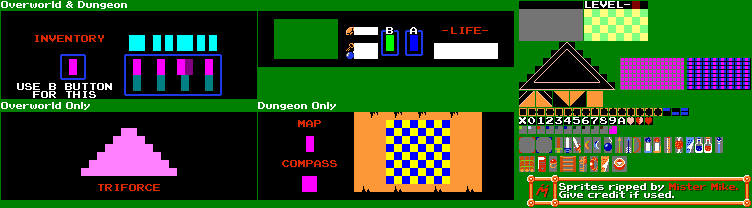
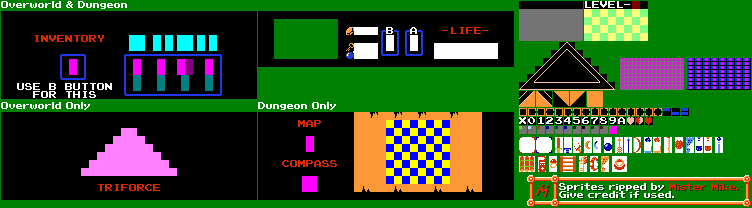
Fix HUD counters and add item slot displays
- Fix counter visibility by initializing displays after signal connection
- Add "X" prefix sprite before counter numbers
- Correct counter positions to match HUD sprite layout
- Fix digit counts: rupees=2, keys=1, bombs=1
- Add B/A item slot displays with all weapon/item sprite regions
- Display wooden sword in B slot on game start
- Add toggleable debug inputs for testing inventory (disabled by default)
- Remove known bug from implementation plan

Changed region(s): [[0.6729, 0.6346, 0.9787, 0.8365], [0.4894, 0.1731, 0.5811, 0.2596]]

diff --git a/IMPLEMENTATION_PLAN.md b/IMPLEMENTATION_PLAN.md
@@ -101,9 +101,6 @@ queue_free()
 - [x] Minimap showing current screen position
 - [x] GameManager autoload for inventory state tracking
 
-**Known Bugs (TODO):**
-- [ ] Rupee/key/bomb counter text not visible in HUD - need to fix positioning or rendering
-
 ### 3.2 Pause Menu
 - [ ] Inventory grid display
 - [ ] Item selection for B slot
